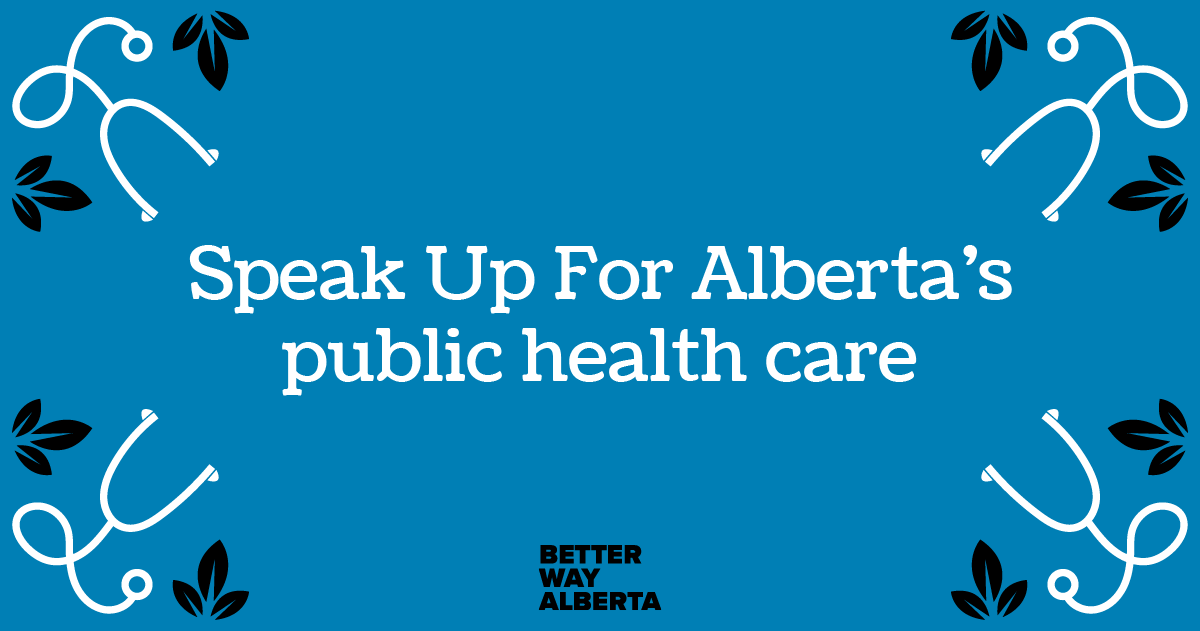
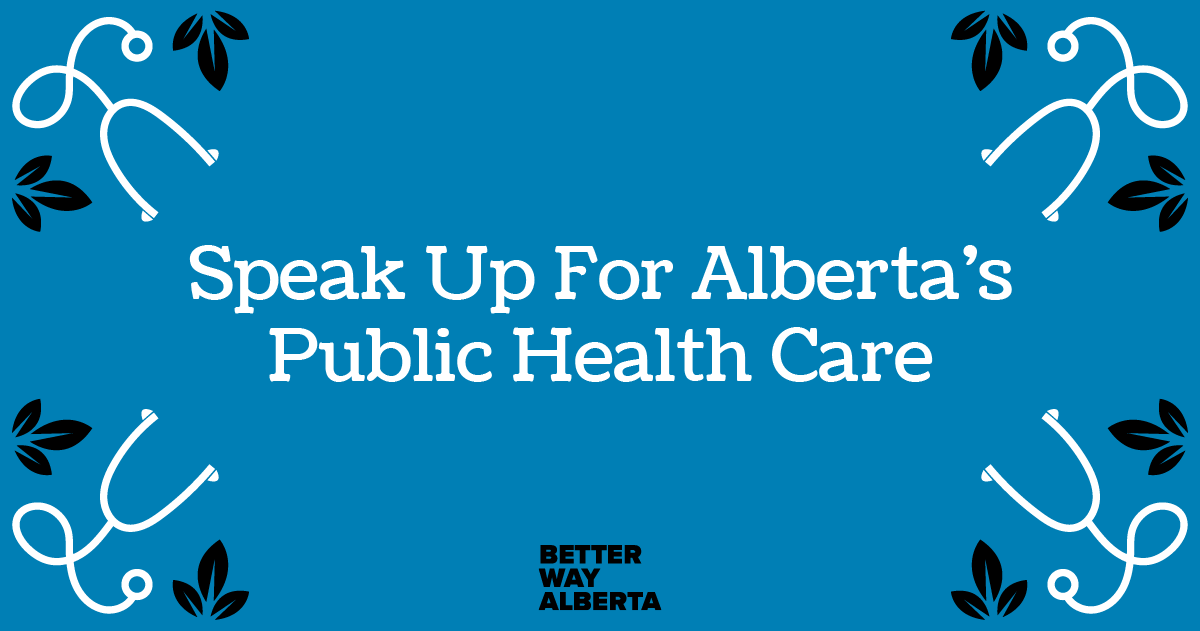
new social texts added header updated

Changed region(s): [[0.2158, 0.5119, 0.8017, 0.6323]]

diff --git a/index.html b/index.html
@@ -4,6 +4,7 @@
     <meta charset="UTF-8">
     <meta http-equiv="X-UA-Compatible" content="IE=edge">
     <meta name="viewport" content="width=device-width, initial-scale=1.0">
+    <meta content="text/html; charset=UTF-8" name="Content-Type" />
     <meta property="og:image" content="assets/AFL_Scrape.png">
     <title>Better Way Alberta</title>
 
@@ -44,7 +45,7 @@
 
 
     <main>
-        <section class="wrapper">
+        <section class="wrapper sub-heading">
             <h2>Make an impact with your story</h2>
             <p class="sub-title mobile aria-hidden">Health care workers have been keeping our public health care system working every day for Albertans. But after a pandemic, provincial funding cuts, and hits to workers’ wages, the UCP’s privatization agenda is putting our system at risk again. The UCP is prioritizing profits over patients and health care workers, pulling resources out of our public system to pay corporate investors.</p>
             
@@ -200,31 +201,15 @@
                 
                 <div class="share-btn-cont flex">
 
-                    <a href="https://twitter.com/intent/tweet?text=Albertans%20trust%20our%20public%20health%20care%20system%20that%20believes%20in%20%23peoplenotprofits.%20That%E2%80%99s%20why%20we%E2%80%99re%20speaking%20up%20to%20fight%20back%20against%20privatization.%20Share%20your%20story%20of%20how%20the%20public%20health%20care%20system%20helped%20you%20and%20your%20family.%20%0A%0A%23abhealth%20%23ableg%0A"
+                    <a href="https://twitter.com/intent/tweet?text=Albertans%20trust%20our%20public%20health%20care%20system%20that%20believes%20in%20%23peoplenotprofits.%20That%27s%20why%20we%27re%20speaking%20up%20to%20fight%20back%20against%20privatization.%20Share%20your%20story%20of%20how%20the%20public%20health%20care%20system%20helped%20you%20and%20your%20family.%0A%0A%23abhealth%20%23ableg%0A%0Ahttps%3A//www.betterwayalberta.ca"
                     class="share-btn TW-btn" target="_blank"><i class="fa-brands fa-twitter-square"></i> Share</a>
 
-                    <a href="https://www.facebook.com/sharer/sharer.php?u=https%3A//pointblankcreative.github.io/stories/"
+                    <a href="https://www.facebook.com/sharer/sharer.php?u=https%3A//www.betterwayalberta.ca/"
                     class="share-btn FB-btn" target="_blank"><i class="fa-brands fa-facebook"></i> Share</a>
                 
                 </div>
             </div>
         </section>
-
-<!-- MODAL FORM -->
-        <!-- MODAL BUTTON -->
-
-        <button id="storyBtn">Submit a story</button>
-
-        <!-- MODAL CONTENT -->
-        <div id="modalContainer" class="modal">
-            <div class="modal-content">
-                <span class="close">&times;</span>
-<!-- form.123formbuilder.com script begins here -->
-<script type="text/javascript" defer src="https://form.123formbuilder.com/embed/6150855.js" data-role="form"
-    data-default-width="650px"></script>
-<!-- form.123formbuilder.com script ends here -->
-            </div>
-        </div>
 
     </main>
 
@@ -237,8 +222,30 @@
                 <p>Better Way Alberta is a partnership between community groups, activists, and organized workers. We bring together different communities across Alberta and support them with a platform and resources to fight for their rights.</p>
             </div>
         </section>
+        
 
     </footer>
+    <!-- MODAL FORM -->
+    <!-- MODAL BUTTON -->
+    
+    <button id="storyBtn">Submit a story</button>
+    
+    <!-- MODAL CONTENT -->
+    <div id="modalContainer" class="modal">
+        <div class="modal-content">
+            <span class="close">&times;</span>
+            <!-- form.123formbuilder.com script begins here -->
+            <!-- <script type="text/javascript" defer src="https://form.123formbuilder.com/embed/6150855.js" data-role="form"
+                data-default-width="650px"></script> -->
+            <!-- form.123formbuilder.com script ends here -->
+            <!-- form.123formbuilder.com script begins here -->
+            <iframe allowTransparency="true"
+                style="min-height:750px; height:inherit; overflow:auto;" width="100%" id="contactform123" name="contactform123"
+                marginwidth="0" marginheight="0" frameborder="0" src="https://form.123formbuilder.com/my-contact-form-6150855.html">
+                <p>Your browser does not support iframes. The story submit form cannot be displayed.</p>
+            </iframe><!-- form.123formbuilder.com script ends here -->
+        </div>
+    </div>
 
 <script src="https://code.jquery.com/jquery-3.6.0.min.js"
     integrity="sha256-/xUj+3OJU5yExlq6GSYGSHk7tPXikynS7ogEvDej/m4=" crossorigin="anonymous"></script>

diff --git a/thank-you.html b/thank-you.html
@@ -5,6 +5,7 @@
     <meta charset="UTF-8">
     <meta http-equiv="X-UA-Compatible" content="IE=edge">
     <meta name="viewport" content="width=device-width, initial-scale=1.0">
+    <meta content="text/html; charset=UTF-8" name="Content-Type" />
     <meta property="og:image" content="assets/AFL_Scrape.png">
     <title>Better Way Alberta</title>
     
@@ -37,10 +38,10 @@
                 <p>Every story matters in fighting for health care workers and a system that puts people—and not profits—first. Can you help us spread the word by sharing this with your family and friends?</p>
 
                 <div class="ty-btn-cont flex">
-                    <a href="https://twitter.com/intent/tweet?text=Albertans%20trust%20our%20public%20health%20care%20system%20that%20believes%20in%20%23peoplenotprofits.%20That%E2%80%99s%20why%20we%E2%80%99re%20speaking%20up%20to%20fight%20back%20against%20privatization.%20Share%20your%20story%20of%20how%20the%20public%20health%20care%20system%20helped%20you%20and%20your%20family.%20%0A%0A%23abhealth%20%23ableg%0A"
+                    <a href="https://twitter.com/intent/tweet?text=Albertans%20trust%20our%20public%20health%20care%20system%20that%20believes%20in%20%23peoplenotprofits.%20That%27s%20why%20we%27re%20speaking%20up%20to%20fight%20back%20against%20privatization.%20Share%20your%20story%20of%20how%20the%20public%20health%20care%20system%20helped%20you%20and%20your%20family.%0A%0A%23abhealth%20%23ableg%0A%0Ahttps%3A//www.betterwayalberta.ca"
                     class="share-btn TW-btn" target="_blank"><i class="fa-brands fa-twitter-square"></i> Share</a>
                 
-                    <a href="https://www.facebook.com/sharer/sharer.php?u=https%3A//pointblankcreative.github.io/stories/"
+                    <a href="https://www.facebook.com/sharer/sharer.php?u=https%3A//www.betterwayalberta.ca/"
                     class="share-btn FB-btn" target="_blank"><i class="fa-brands fa-facebook"></i> Share</a>
                 </div>
 
@@ -62,7 +63,7 @@
                 <h2>Together, we can fight back against privatization and protect Alberta’s public health care system.</h2>
 
                 <div class="return-btn flex">
-                    <a href="index.html"
+                    <a href="https://www.betterwayalberta.ca/"
                     class="share-btn" target="_blank"> Return to stories</a>
                 </div>
             </div>

diff --git a/styles/style.css b/styles/style.css
@@ -269,8 +269,8 @@ img {
 h1 {
   color: #fff;
   font-family: "Coustard", sans-serif;
-  font-size: 5.8rem;
-  line-height: 6rem;
+  font-size: 5rem;
+  line-height: 5.2rem;
   font-weight: 400;
 }
 
@@ -357,7 +357,7 @@ button:hover {
 .modal-content {
   background-color: #fefefe;
   margin: auto;
-  padding: 20px 50px;
+  padding: 20px;
   border: 5px solid black;
   border-radius: 10px;
   width: 40%;
@@ -419,6 +419,10 @@ button:hover {
   font-weight: 700;
 }
 
+.sub-heading {
+  margin: 75px auto;
+}
+
 .sub-title {
   color: #000;
   font-size: 2rem;
@@ -444,7 +448,7 @@ button:hover {
 .img-cont-l, .img-cont-m, .img-cont-r {
   width: 33%;
   background-position: center;
-  background-size: contain;
+  background-size: cover;
   background-repeat: no-repeat;
 }
 
@@ -703,11 +707,11 @@ footer .footer-cont .logo-cont {
 
 @media (max-width: 1165px) {
   h1 {
-    font-size: 5rem;
-    line-height: 5rem;
+    font-size: 4.2rem;
+    line-height: 4.5rem;
   }
 }
-@media (max-width: 1000px) {
+@media (max-width: 1020px) {
   .wrapper {
     width: 80%;
   }
@@ -744,7 +748,11 @@ footer .footer-cont .logo-cont {
 
   .img-cont-l, .img-cont-m, .img-cont-r {
     width: 100%;
-    background-size: cover;
+    background-size: contain;
+  }
+
+  .sub-heading {
+    margin: 25px auto;
   }
 
   .modal-content {
@@ -801,6 +809,10 @@ footer .footer-cont .logo-cont {
 .stories {
     width: 100%;
     padding: 20px;
+  }
+
+  .mobile {
+    overflow: hidden;
   }
 
   .modal-content {

diff --git a/styles/sass/_mediaQueries.scss b/styles/sass/_mediaQueries.scss
@@ -1,11 +1,11 @@
 @media (max-width: 1165px) {
     h1 {
-        font-size: 5rem;
-        line-height: 5rem;
+        font-size: 4.2rem;
+        line-height: 4.5rem;
     }
 }
 
-@media (max-width: 1000px) {
+@media (max-width: 1020px) {
     .wrapper {
         width: 80%;
     }
@@ -29,7 +29,10 @@
     }
     .img-cont-l, .img-cont-m, .img-cont-r {
         width: 100%;
-        background-size: cover;
+        background-size: contain;
+    }
+    .sub-heading {
+        margin: 25px auto;
     }
     .modal-content {
         width: 60%;
@@ -75,6 +78,9 @@
     .stories {
         width: 100%;
         padding: 20px;
+    }
+    .mobile {
+        overflow: hidden;
     }
     .modal-content {
         width: 90%;

diff --git a/styles/sass/_content.scss b/styles/sass/_content.scss
@@ -24,6 +24,10 @@
     }
 }
 
+.sub-heading {
+    margin: 75px auto;
+}
+
 .sub-title {
     color: #000;
     font-size: 2rem;
@@ -47,7 +51,7 @@
 .img-cont-l, .img-cont-m, .img-cont-r {
     width: 33%;
     background-position: center;
-    background-size: contain;
+    background-size: cover;
     background-repeat: no-repeat;
 }
 .img-cont-l {

diff --git a/styles/sass/_modal.scss b/styles/sass/_modal.scss
@@ -37,7 +37,7 @@ button:hover {
 .modal-content {
     background-color: #fefefe;
     margin: auto;
-    padding: 20px 50px;
+    padding: 20px;
     border: 5px solid black;
     border-radius: 10px;
     width: 40%;

diff --git a/styles/sass/_fonts.scss b/styles/sass/_fonts.scss
@@ -9,8 +9,8 @@
 h1 {
     color: #fff;
     font-family: 'Coustard', sans-serif;
-    font-size: 5.8rem;
-    line-height: 6rem;
+    font-size: 5rem;
+    line-height: 5.2rem;
     font-weight: 400;
 }
 
